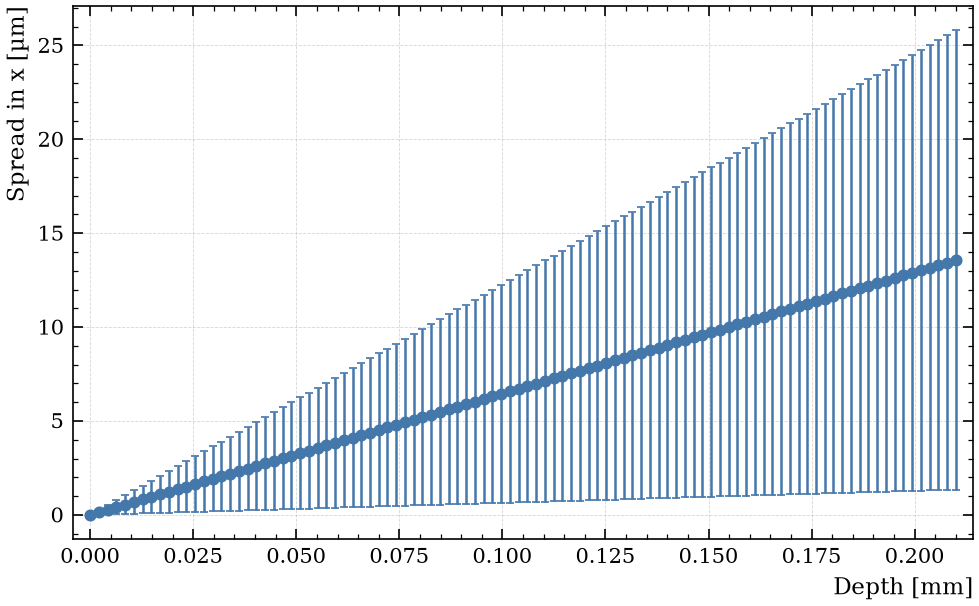
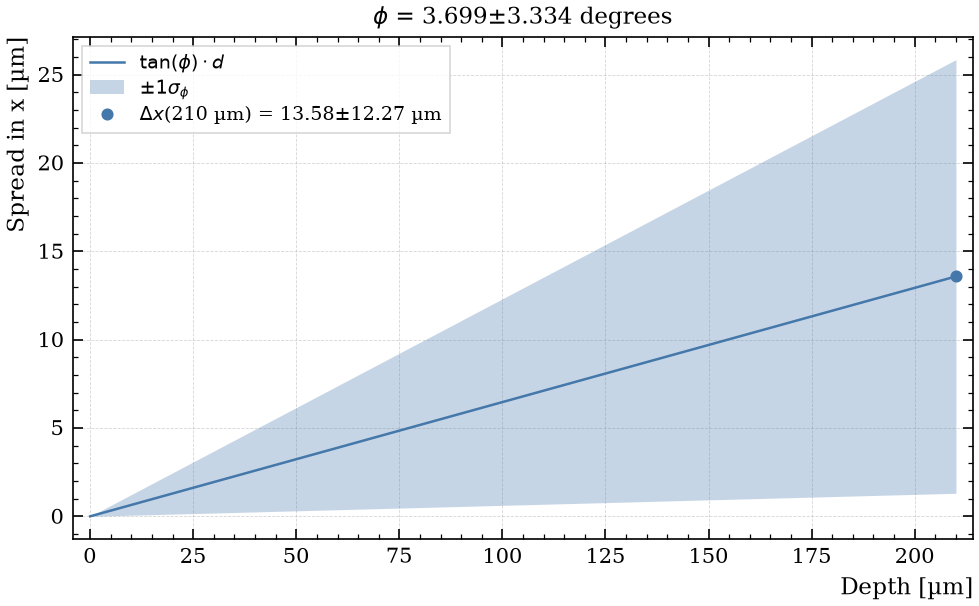
ana

diff --git a/x_scan.py b/x_scan.py
@@ -154,20 +154,20 @@ class XScan(BaseAnalysis):
         # Plot the x spread after the length of the sensor
         if residuals is not None:
             fig_spr, ax_spr = plt.subplots(1,1)
-            dxr = np.linspace(0, self.cfg.depth, 100)
+            dxr = np.linspace(0, 1000 * self.cfg.depth, 100)
             phi_rad, phierr_rad = np.deg2rad(phi), np.deg2rad(phierr)
-            spread = 1000 * np.tan(phi_rad) * dxr
+            spread = np.tan(phi_rad) * dxr
             # Error from the tilt only: d(tan phi) = sec^2(phi) dphi
-            spread_err = 1000 * dxr * phierr_rad / np.cos(phi_rad) ** 2
+            spread_err = dxr * phierr_rad / np.cos(phi_rad) ** 2
             ax_spr.plot(dxr, spread, color="C0",
-                        label=rf"$\tan(\phi)\cdot d$, $\phi$ = {phi:.3f}$\pm${phierr:.3f} degrees")
+                        label=rf"$\tan(\phi)\cdot d$")
             ax_spr.fill_between(dxr, spread - spread_err, spread + spread_err, color="C0", alpha=0.3, lw=0,
                                 label=r"$\pm 1\sigma_\phi$")
             ax_spr.plot(dxr[-1], spread[-1], "o", color="C0", ms=5,
                         label=rf"$\Delta x$({1000 * self.cfg.depth:.0f} µm) = {spread[-1]:.2f}$\pm${spread_err[-1]:.2f} µm")
             ax_spr.legend(fontsize="small", framealpha=0.8)
-            ax_spr.set_title("Spread in x from the sensor tilt")
-            ax_spr.set_xlabel("Depth [mm]")
+            ax_spr.set_title(rf"$\phi$ = {phi:.3f}$\pm${phierr:.3f} degrees")
+            ax_spr.set_xlabel("Depth [µm]")
             ax_spr.set_ylabel("Spread in x [µm]")
             fig_spr.savefig(fitdir / "tilt_spread.png", dpi=150)
             plt.close(fig_spr)
